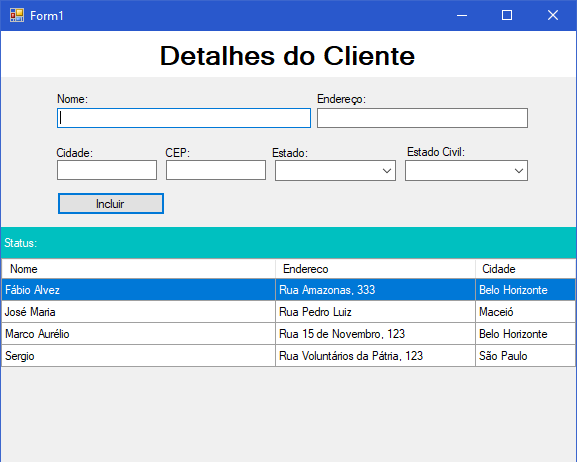
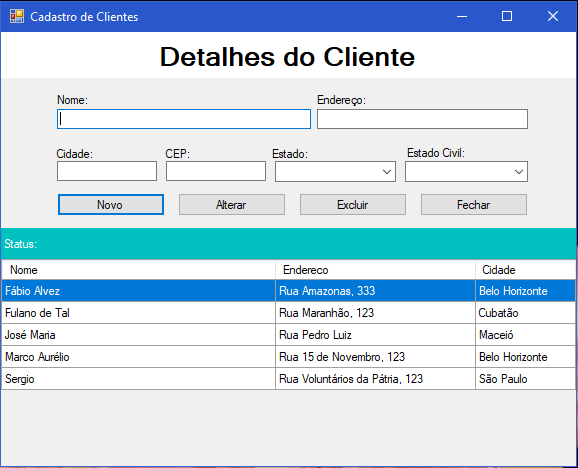
Atualizando DataGrid com List

diff --git a/Form1.Designer.cs b/Form1.Designer.cs
@@ -45,12 +45,12 @@ namespace app8
          this.cmdIncluir = new System.Windows.Forms.Button();
          this.label1 = new System.Windows.Forms.Label();
          this.lblStatus = new System.Windows.Forms.Label();
+         this.cmdFechar = new System.Windows.Forms.Button();
+         this.cmdAlterar = new System.Windows.Forms.Button();
+         this.cmdExcluir = new System.Windows.Forms.Button();
          this.cboEstado = new app8.Controller.EstadoComboBox();
          this.cboEstadoCivil = new app8.Controller.EstadoCivilComboBox();
          this.dgClientes = new app8.Entities.ClientesGridView();
-         this.button1 = new System.Windows.Forms.Button();
-         this.button2 = new System.Windows.Forms.Button();
-         this.button3 = new System.Windows.Forms.Button();
          ((System.ComponentModel.ISupportInitialize)(this.dgClientes)).BeginInit();
          this.SuspendLayout();
          // 
@@ -162,7 +162,7 @@ namespace app8
          this.label1.Location = new System.Drawing.Point(0, 0);
          this.label1.Name = "label1";
          this.label1.Size = new System.Drawing.Size(575, 46);
-         this.label1.TabIndex = 8;
+         this.label1.TabIndex = 12;
          this.label1.Text = "Detalhes do Cliente";
          this.label1.TextAlign = System.Drawing.ContentAlignment.MiddleCenter;
          // 
@@ -173,9 +173,37 @@ namespace app8
          this.lblStatus.Location = new System.Drawing.Point(0, 196);
          this.lblStatus.Name = "lblStatus";
          this.lblStatus.Size = new System.Drawing.Size(575, 31);
-         this.lblStatus.TabIndex = 14;
+         this.lblStatus.TabIndex = 10;
          this.lblStatus.Text = "Status:";
          this.lblStatus.TextAlign = System.Drawing.ContentAlignment.MiddleLeft;
+         // 
+         // cmdFechar
+         // 
+         this.cmdFechar.Location = new System.Drawing.Point(419, 161);
+         this.cmdFechar.Name = "cmdFechar";
+         this.cmdFechar.Size = new System.Drawing.Size(108, 23);
+         this.cmdFechar.TabIndex = 9;
+         this.cmdFechar.Text = "&Fechar";
+         this.cmdFechar.UseVisualStyleBackColor = true;
+         this.cmdFechar.Click += new System.EventHandler(this.cmdFechar_Click);
+         // 
+         // cmdAlterar
+         // 
+         this.cmdAlterar.Location = new System.Drawing.Point(177, 161);
+         this.cmdAlterar.Name = "cmdAlterar";
+         this.cmdAlterar.Size = new System.Drawing.Size(108, 23);
+         this.cmdAlterar.TabIndex = 7;
+         this.cmdAlterar.Text = "&Alterar";
+         this.cmdAlterar.UseVisualStyleBackColor = true;
+         // 
+         // cmdExcluir
+         // 
+         this.cmdExcluir.Location = new System.Drawing.Point(298, 161);
+         this.cmdExcluir.Name = "cmdExcluir";
+         this.cmdExcluir.Size = new System.Drawing.Size(108, 23);
+         this.cmdExcluir.TabIndex = 8;
+         this.cmdExcluir.Text = "&Excluir";
+         this.cmdExcluir.UseVisualStyleBackColor = true;
          // 
          // cboEstado
          // 
@@ -211,38 +239,9 @@ namespace app8
          this.dgClientes.RowHeadersVisible = false;
          this.dgClientes.SelectionMode = System.Windows.Forms.DataGridViewSelectionMode.FullRowSelect;
          this.dgClientes.Size = new System.Drawing.Size(575, 207);
-         this.dgClientes.TabIndex = 7;
+         this.dgClientes.TabIndex = 11;
          this.dgClientes.TabStop = false;
-         // 
-         // button1
-         // 
-         this.button1.Location = new System.Drawing.Point(419, 161);
-         this.button1.Name = "button1";
-         this.button1.Size = new System.Drawing.Size(108, 23);
-         this.button1.TabIndex = 6;
-         this.button1.Text = "&Fechar";
-         this.button1.UseVisualStyleBackColor = true;
-         this.button1.Click += new System.EventHandler(this.cmdIncluir_Click);
-         // 
-         // button2
-         // 
-         this.button2.Location = new System.Drawing.Point(177, 161);
-         this.button2.Name = "button2";
-         this.button2.Size = new System.Drawing.Size(108, 23);
-         this.button2.TabIndex = 6;
-         this.button2.Text = "&Alterar";
-         this.button2.UseVisualStyleBackColor = true;
-         this.button2.Click += new System.EventHandler(this.cmdIncluir_Click);
-         // 
-         // button3
-         // 
-         this.button3.Location = new System.Drawing.Point(298, 161);
-         this.button3.Name = "button3";
-         this.button3.Size = new System.Drawing.Size(108, 23);
-         this.button3.TabIndex = 6;
-         this.button3.Text = "&Excluir";
-         this.button3.UseVisualStyleBackColor = true;
-         this.button3.Click += new System.EventHandler(this.cmdIncluir_Click);
+         this.dgClientes.CellDoubleClick += new System.Windows.Forms.DataGridViewCellEventHandler(this.dgClientes_CellDoubleClick);
          // 
          // Form1
          // 
@@ -252,9 +251,9 @@ namespace app8
          this.ClientSize = new System.Drawing.Size(575, 434);
          this.Controls.Add(this.lblStatus);
          this.Controls.Add(this.label1);
-         this.Controls.Add(this.button3);
-         this.Controls.Add(this.button2);
-         this.Controls.Add(this.button1);
+         this.Controls.Add(this.cmdExcluir);
+         this.Controls.Add(this.cmdAlterar);
+         this.Controls.Add(this.cmdFechar);
          this.Controls.Add(this.cmdIncluir);
          this.Controls.Add(this.label5);
          this.Controls.Add(this.label4);
@@ -300,9 +299,9 @@ namespace app8
       private System.Windows.Forms.Label lblStatus;
       private EstadoComboBox cboEstado;
       private EstadoCivilComboBox cboEstadoCivil;
-      private System.Windows.Forms.Button button1;
-      private System.Windows.Forms.Button button2;
-      private System.Windows.Forms.Button button3;
+      private System.Windows.Forms.Button cmdFechar;
+      private System.Windows.Forms.Button cmdAlterar;
+      private System.Windows.Forms.Button cmdExcluir;
    }
 }
 

diff --git a/Form1.cs b/Form1.cs
@@ -10,6 +10,7 @@ namespace app8
    {
       Connection ca = new Connection();
       Validacao funcao = new Validacao();
+      Cliente cliente = new Cliente();
 
       public Form1()
       {
@@ -26,50 +27,68 @@ namespace app8
       private void cmdIncluir_Click(object sender, EventArgs e)
       {
          string status = "";
-
-         Cliente cliente = new Cliente
+         if (cmdIncluir.Text == "&Salvar")
          {
-            Nome = txtNome.Text.Trim(),
-            Endereco = txtEndereco.Text.Trim(),
-            Cep = txtCep.Text.Trim(),
-            Cidade = txtCidade.Text.Trim(),
-            Estado = cboEstado.ToEstado(),
-            EstadoCivil = cboEstadoCivil.ToEstadoCivil()
-         };
+            cliente.Nome = txtNome.Text.Trim();
+            cliente.Endereco = txtEndereco.Text.Trim();
+            cliente.Cep = txtCep.Text.Trim();
+            cliente.Cidade = txtCidade.Text.Trim();
+            cliente.Estado = cboEstado.ToEstado();
+            cliente.EstadoCivil = cboEstadoCivil.ToEstadoCivil();
 
-         try
-         {
-            cliente.Validar();
-
-            Validation2 valida = new Validation2
+            try
             {
-               Nome = txtNome.Text.Trim(),
-               Endereco = txtEndereco.Text.Trim(),
-               Cep = txtCep.Text.Trim(),
-               Cidade = txtCidade.Text.Trim(),
-               Estado = cboEstado.Text.Trim(),
-               IdEstado = Convert.ToInt32(cboEstado.SelectedValue),
-               EstadoCivil = cboEstadoCivil.Text.Trim(),
-               IdEstadoCivil = Convert.ToInt32(cboEstadoCivil.SelectedValue)
-            };
+               cliente.Validar();
 
-            valida.IsertClient();
+               Validation2 valida = new Validation2
+               {
+                  Nome = txtNome.Text.Trim(),
+                  Endereco = txtEndereco.Text.Trim(),
+                  Cep = txtCep.Text.Trim(),
+                  Cidade = txtCidade.Text.Trim(),
+                  Estado = cboEstado.Text.Trim(),
+                  IdEstado = Convert.ToInt32(cboEstado.SelectedValue),
+                  EstadoCivil = cboEstadoCivil.Text.Trim(),
+                  IdEstadoCivil = Convert.ToInt32(cboEstadoCivil.SelectedValue)
+               };
 
-            dgClientes.PreencheDataGrid();
+               valida.IsertClient();
+
+               dgClientes.PreencheDataGrid();
+            }
+            catch (Exception x)
+            {
+               status = x.Message;
+               if (cliente.txtControle == "nome") txtNome.Focus();
+               if (cliente.txtControle == "endereco") txtEndereco.Focus();
+               if (cliente.txtControle == "cidade") txtCidade.Focus();
+               if (cliente.txtControle == "cep") txtCep.Focus();
+               if (cliente.txtControle == "estado") cboEstado.Focus();
+               if (cliente.txtControle == "estadocivil") cboEstadoCivil.Focus();
+               cliente.txtControle = "";
+            }
+            finally
+            {
+               lblStatus.Text = "Status: " + status;
+            }
          }
-         catch (Exception x)
+         else
          {
-            status = x.Message;
-            if (cliente.txtControle == "nome") txtNome.Focus();
-            if (cliente.txtControle == "endereco") txtEndereco.Focus();
-            if (cliente.txtControle == "cidade") txtCidade.Focus();
-            if (cliente.txtControle == "cep") txtCep.Focus();
-            if (cliente.txtControle == "estado") cboEstado.Focus();
-            if (cliente.txtControle == "estadoCivil") cboEstadoCivil.Focus();
+            cmdIncluir.Text = "&Salvar";
+            txtNome.Focus();
          }
-         finally
+      }
+
+      private void cmdFechar_Click(object sender, EventArgs e)
+      {
+         this.Close();
+      }
+
+      private void dgClientes_CellDoubleClick(object sender, DataGridViewCellEventArgs e)
+      {
+         if (e.RowIndex >= 0)
          {
-            lblStatus.Text = "Status: " + status;
+            lblStatus.Text = e.RowIndex.ToString();
          }
       }
    }

diff --git a/Entities/Validation2.cs b/Entities/Validation2.cs
@@ -38,12 +38,12 @@ namespace app8.Entities
 
       public void Valida()
       {
-         if (Nome.Length == 0) throw new Exception("Nome não ser nulo!");
-         if (Endereco.Length == 0) throw new Exception("Endereço  não ser nulo!");
-         if (Cidade.Length == 0) throw new Exception("Cidade não ser nulo!");
-         if (Cep.Length == 0) throw new Exception("Cep não ser nulo!");
-         if (Estado.Length == 0) throw new Exception("Estado não ser nulo!");
-         if (EstadoCivil.Length == 0) throw new Exception("Estado Civil não ser nulo!");
+         if (Nome.Length == 0) throw new Exception("Nome não pode ser nulo!");
+         if (Endereco.Length == 0) throw new Exception("Endereço  pode não ser nulo!");
+         if (Cidade.Length == 0) throw new Exception("Cidade não pode ser nulo!");
+         if (Cep.Length == 0) throw new Exception("Cep não ser pode nulo!");
+         if (Estado.Length == 0) throw new Exception("Estado não pode ser nulo!");
+         if (EstadoCivil.Length == 0) throw new Exception("Estado Civil não pode ser nulo!");
       }
 
       public void IsertClient()
@@ -58,6 +58,13 @@ namespace app8.Entities
          com.ExecuteNonQuery();
          Status = "Cliente cadastrado";
          ca.CloseDb();
+      }
+
+      public void UpdateClient()
+      {
+         string sql = $"UPDATE Clientes SET ( Nome ={Nome}, idEstadoCivil = {IdEstadoCivil},"
+                    + $"Endereco = {Endereco}, CEP = {Cep}, Cidade = {Cidade}, idEstado = {IdEstado}";
+
       }
    }
 }

diff --git a/Controller/ClientesGridView.cs b/Controller/ClientesGridView.cs
@@ -9,13 +9,6 @@ namespace app8.Entities
       public ClientesGridView()
       {
          ca = new Connection();
-
-         //var nome = new System.Windows.Forms.DataGridViewTextBoxColumn();
-         //nome.HeaderText = "Nome";
-
-         //this.Columns.AddRange(new System.Windows.Forms.DataGridViewColumn[] {
-         //   nome
-         //});
       }
          
       public void PreencheDataGrid()

diff --git a/Entities/Cliente.cs b/Entities/Cliente.cs
@@ -42,7 +42,7 @@ namespace app8.Entities
 
       public void ValidarNomeCliente()
       {
-         //txtControle = "nome";
+         txtControle = "nome";
    
          ca.RunQuery(
             $"SELECT Nome FROM Clientes WHERE (Nome = '{this.Nome}')",

diff --git a/Entities/Connection.cs b/Entities/Connection.cs
@@ -36,7 +36,8 @@ namespace app8
          catch (Exception x)
          {
             return new DataTable();
-         } finally
+         } 
+         finally
          {
             CloseDb();
          }

diff --git a/Entities/Entidade.cs b/Entities/Entidade.cs
@@ -1,8 +1,4 @@
 using System;
-using System.Collections.Generic;
-using System.Linq;
-using System.Text;
-using System.Threading.Tasks;
 
 namespace app8.Entities
 {
